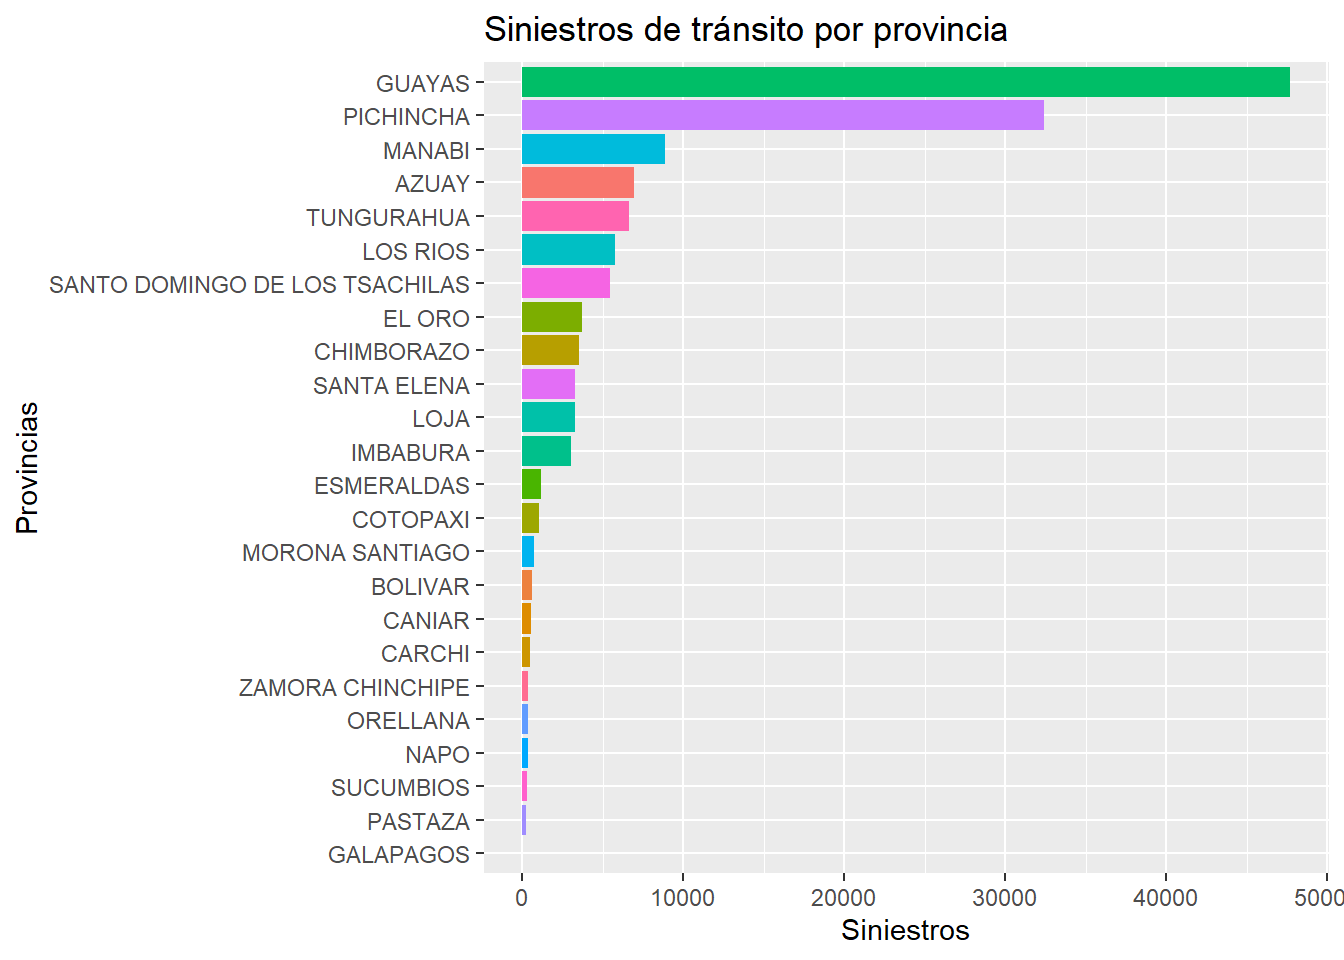
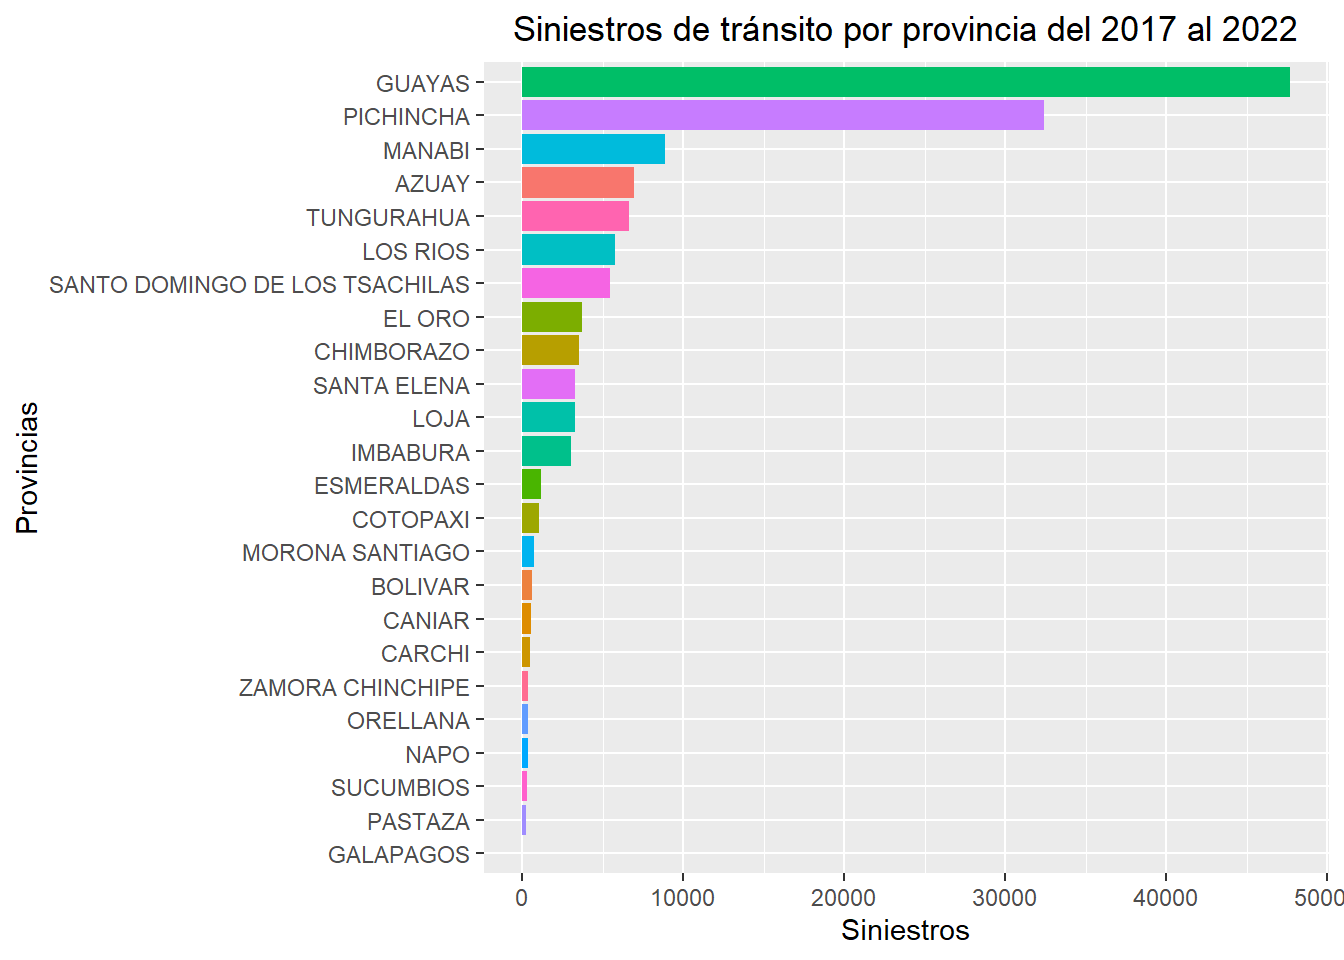
boxplot de siniestros por tipo

Changed region(s): [[0.3438, 0.0, 0.9688, 0.0625]]

diff --git a/Proyecto_Parcial.html b/Proyecto_Parcial.html
@@ -240,17 +240,19 @@ code span.wa { color: #60a0b0; font-weight: bold; font-style: italic; } /* Warni
 <span id="cb5-4"><a href="#cb5-4" aria-hidden="true" tabindex="-1"></a>  <span class="fu">geom_bar</span>(<span class="at">mapping =</span> <span class="fu">aes</span>(<span class="at">x =</span> <span class="fu">fct_rev</span>(<span class="fu">fct_infreq</span>(PROVINCIA)), <span class="at">fill=</span>PROVINCIA), <span class="at">show.legend =</span> <span class="cn">FALSE</span>) <span class="sc">+</span></span>
 <span id="cb5-5"><a href="#cb5-5" aria-hidden="true" tabindex="-1"></a>  <span class="fu">coord_flip</span>() <span class="sc">+</span></span>
 <span id="cb5-6"><a href="#cb5-6" aria-hidden="true" tabindex="-1"></a>  <span class="fu">labs</span>(<span class="at">y=</span><span class="st">"Siniestros"</span>, <span class="at">x=</span><span class="st">"Provincias"</span>) <span class="sc">+</span></span>
-<span id="cb5-7"><a href="#cb5-7" aria-hidden="true" tabindex="-1"></a>  <span class="fu">ggtitle</span>(<span class="st">"Siniestros de tránsito por provincia"</span>)</span></code><button title="Copy to Clipboard" class="code-copy-button"><i class="bi"></i></button></pre></div>
+<span id="cb5-7"><a href="#cb5-7" aria-hidden="true" tabindex="-1"></a>  <span class="fu">ggtitle</span>(<span class="st">"Siniestros de tránsito por provincia del 2017 al 2022"</span>) <span class="sc">+</span></span>
+<span id="cb5-8"><a href="#cb5-8" aria-hidden="true" tabindex="-1"></a>  <span class="fu">theme</span>(<span class="at">plot.title =</span> <span class="fu">element_text</span>(<span class="at">hjust =</span> <span class="fl">0.5</span>))</span></code><button title="Copy to Clipboard" class="code-copy-button"><i class="bi"></i></button></pre></div>
 <div class="cell-output-display">
 <p><img src="Proyecto_Parcial_files/figure-html/unnamed-chunk-6-1.png" class="img-fluid" width="672"></p>
 </div>
 </div>
 <div class="cell">
-<div class="sourceCode cell-code" id="cb6"><pre class="sourceCode r code-with-copy"><code class="sourceCode r"><span id="cb6-1"><a href="#cb6-1" aria-hidden="true" tabindex="-1"></a>siniestros_por_fecha <span class="ot">&lt;-</span> df_siniestros <span class="sc">%&gt;%</span></span>
-<span id="cb6-2"><a href="#cb6-2" aria-hidden="true" tabindex="-1"></a>  <span class="fu">count</span>(FECHA)</span>
-<span id="cb6-3"><a href="#cb6-3" aria-hidden="true" tabindex="-1"></a></span>
-<span id="cb6-4"><a href="#cb6-4" aria-hidden="true" tabindex="-1"></a><span class="fu">ggplot</span>(<span class="at">data =</span> siniestros_por_fecha) <span class="sc">+</span> </span>
-<span id="cb6-5"><a href="#cb6-5" aria-hidden="true" tabindex="-1"></a>  <span class="fu">geom_point</span>(<span class="at">mapping =</span> <span class="fu">aes</span>(<span class="at">x =</span> FECHA, <span class="at">y =</span> n))</span></code><button title="Copy to Clipboard" class="code-copy-button"><i class="bi"></i></button></pre></div>
+<div class="sourceCode cell-code" id="cb6"><pre class="sourceCode r code-with-copy"><code class="sourceCode r"><span id="cb6-1"><a href="#cb6-1" aria-hidden="true" tabindex="-1"></a><span class="fu">ggplot</span>(<span class="at">data =</span> df_siniestros) <span class="sc">+</span> </span>
+<span id="cb6-2"><a href="#cb6-2" aria-hidden="true" tabindex="-1"></a>  <span class="fu">geom_boxplot</span>( <span class="at">mapping =</span> <span class="fu">aes</span>(<span class="at">x =</span> <span class="fu">fct_rev</span>(<span class="fu">fct_infreq</span>(TIPO_DE_SINIESTRO)), <span class="at">y =</span> ID, <span class="at">fill=</span>TIPO_DE_SINIESTRO), <span class="at">show.legend =</span> <span class="cn">FALSE</span>) <span class="sc">+</span></span>
+<span id="cb6-3"><a href="#cb6-3" aria-hidden="true" tabindex="-1"></a>  <span class="fu">coord_flip</span>() <span class="sc">+</span></span>
+<span id="cb6-4"><a href="#cb6-4" aria-hidden="true" tabindex="-1"></a>  <span class="fu">labs</span>(<span class="at">x=</span><span class="st">"Tipo de siniestro"</span>, <span class="at">y=</span><span class="st">"Conteo"</span>) <span class="sc">+</span></span>
+<span id="cb6-5"><a href="#cb6-5" aria-hidden="true" tabindex="-1"></a>  <span class="fu">ggtitle</span>(<span class="st">"Siniestros de tránsito por tipo del 2017 al 2022"</span>) <span class="sc">+</span></span>
+<span id="cb6-6"><a href="#cb6-6" aria-hidden="true" tabindex="-1"></a>  <span class="fu">theme</span>(<span class="at">plot.title =</span> <span class="fu">element_text</span>(<span class="at">hjust =</span> <span class="fl">0.5</span>))</span></code><button title="Copy to Clipboard" class="code-copy-button"><i class="bi"></i></button></pre></div>
 <div class="cell-output-display">
 <p><img src="Proyecto_Parcial_files/figure-html/unnamed-chunk-7-1.png" class="img-fluid" width="672"></p>
 </div>
